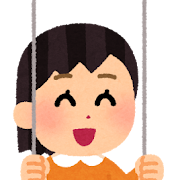
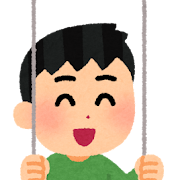
プロフィール画像を追加した

diff --git a/index.html b/index.html
@@ -62,7 +62,6 @@
                         <article>
                             <h3>スピーカー</h3>
                             <div class="speaker">
-                                <!--TODO : プロフィール画像を受け取ったら更新する-->
                                 <img src="images/speaker1.png" alt="" class="image" />
                                 <div class="inner">
                                     <h4>1人目: いろふさん</h4>
@@ -72,7 +71,6 @@
                                 </div>
                             </div>
                             <div class="speaker">
-                                <!--TODO : プロフィール画像を受け取ったら更新する-->
                                 <img src="images/speaker2.png" alt="" class="image" />
                                 <div class="inner">
                                     <h4>2人目: うらがみさん</h4>
